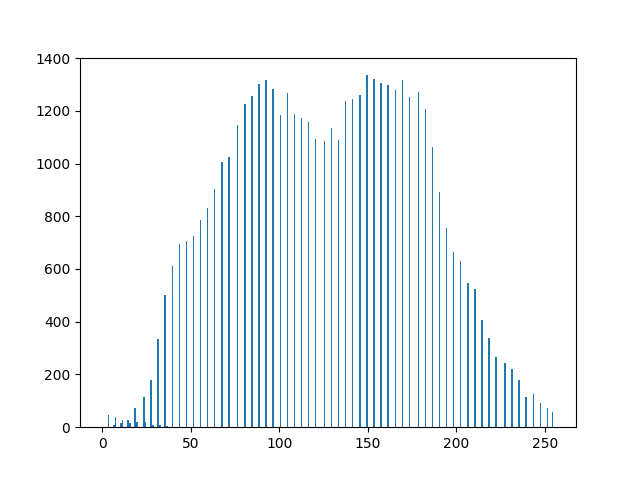
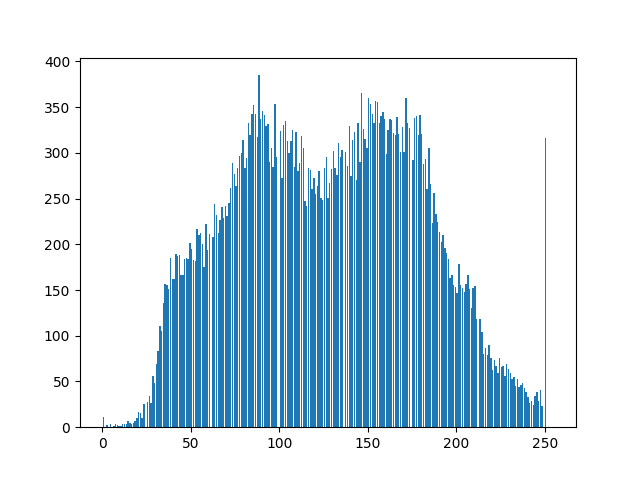
finished question 25

diff --git a/Image_Processing_100_Questions/Question_21_30/Q25_nearest_neighbor_interpolation.py b/Image_Processing_100_Questions/Question_21_30/Q25_nearest_neighbor_interpolation.py
@@ -1,0 +1,29 @@
+import cv2
+import numpy as np
+
+
+def enlarge(src, rate=1.5):
+    height, width, channels = src.shape
+    after_height = int(height * rate)
+    after_width = int(width * rate)
+
+    out = np.zeros((after_height, after_width, channels), np.uint8)
+
+    index_y = np.arange(after_height).repeat(after_width).reshape(after_width, -1)
+    index_x = np.tile(np.arange(after_width), (after_height, 1))
+    index_y = (index_y / rate).astype(np.uint8)
+    index_x = (index_x / rate).astype(np.uint8)
+
+    out = src[index_y, index_x]
+
+    return out
+
+
+src = cv2.imread("imori.png")
+
+out = enlarge(src)
+
+cv2.imshow("result", out)
+cv2.imwrite("answer_25.jpg", out)
+cv2.waitKey(0)
+cv2.destroyAllWindows()

diff --git a/Image_Processing_100_Questions/Question_21_30/Q23_histogram_equalization.py b/Image_Processing_100_Questions/Question_21_30/Q23_histogram_equalization.py
@@ -1,0 +1,35 @@
+import cv2
+import numpy as np
+import matplotlib.pyplot as plt
+
+
+def equalization(src):
+    height, width, channels = src.shape
+    pix_cnt = height * width * channels
+    z_max = 255
+
+    out = np.zeros_like(src, np.float32)
+
+    cnt = 0
+    for i in range(256):
+        index = np.where(src == i)
+        cnt += len(src[index])
+        out[index] = z_max / pix_cnt * cnt
+
+    out = out.astype(np.uint8)
+
+    return out
+
+
+src = cv2.imread("imori.png")
+
+out = equalization(src)
+
+plt.hist(out.ravel(), bins=255, rwidth=0.8, range=(0, 255))
+plt.savefig("answer_23_2.png")
+plt.show()
+
+cv2.imshow("result", out)
+cv2.imwrite("answer_23_1.jpg", out)
+cv2.waitKey(0)
+cv2.destroyAllWindows()

diff --git a/Image_Processing_100_Questions/Question_21_30/Q21_histogram_normalization.py b/Image_Processing_100_Questions/Question_21_30/Q21_histogram_normalization.py
@@ -1,0 +1,33 @@
+import cv2
+import numpy as np
+import matplotlib.pyplot as plt
+
+
+def normalization(src):
+    a, b = 0., 255.
+    min_val = np.min(src)
+    max_val = np.max(src)
+
+    out = src.copy().astype(np.float32)
+
+    out[out < a] = a
+    out[out > b] = b
+    out = (b - a) / (max_val - min_val) * (out - min_val) + a
+
+    out = out.astype(np.uint8)
+
+    return out
+
+
+src = cv2.imread("imori_dark.jpg")
+
+out = normalization(src)
+
+plt.hist(out.ravel(), bins=255, rwidth=0.8, range=(0, 255))
+plt.savefig("answer_21_2.png")
+plt.show()
+
+cv2.imshow("result", out)
+cv2.imwrite("answer_21_1.jpg", out)
+cv2.waitKey(0)
+cv2.destroyAllWindows()

diff --git a/Image_Processing_100_Questions/Question_21_30/Q22_histogram_operation.py b/Image_Processing_100_Questions/Question_21_30/Q22_histogram_operation.py
@@ -1,0 +1,31 @@
+import cv2
+import numpy as np
+import matplotlib.pyplot as plt
+
+
+def operation(src):
+    m0 = 128
+    s0 = 52
+
+    m = np.mean(src)
+    s = np.std(src)
+
+    out = src.copy().astype(np.float32)
+    out = s0 / s * (out - m) + m0
+    out = np.clip(out, 0, 255).astype(np.uint8)
+
+    return out
+
+
+src = cv2.imread("imori.png")
+
+out = operation(src)
+
+plt.hist(out.ravel(), bins=255, rwidth=0.8, range=(0, 255))
+plt.savefig("answer_22_2.png")
+plt.show()
+
+cv2.imshow("result", out)
+cv2.imwrite("answer_22_1.jpg", out)
+cv2.waitKey(0)
+cv2.destroyAllWindows()

diff --git a/Image_Processing_100_Questions/Question_21_30/Q24_gamma_correction.py b/Image_Processing_100_Questions/Question_21_30/Q24_gamma_correction.py
@@ -1,0 +1,20 @@
+import cv2
+import numpy as np
+
+
+def gamma_correction(src, c=1., g=2.2):
+    out = src.astype(np.float32) / 255
+    out = (out / c) ** (1 / g)
+    out *= 255
+    out = out.astype(np.uint8)
+    return out
+
+
+src = cv2.imread("imori_gamma.jpg")
+
+out = gamma_correction(src)
+
+cv2.imshow("result", out)
+cv2.imwrite("answer_24.jpg", out)
+cv2.waitKey(0)
+cv2.destroyAllWindows()
